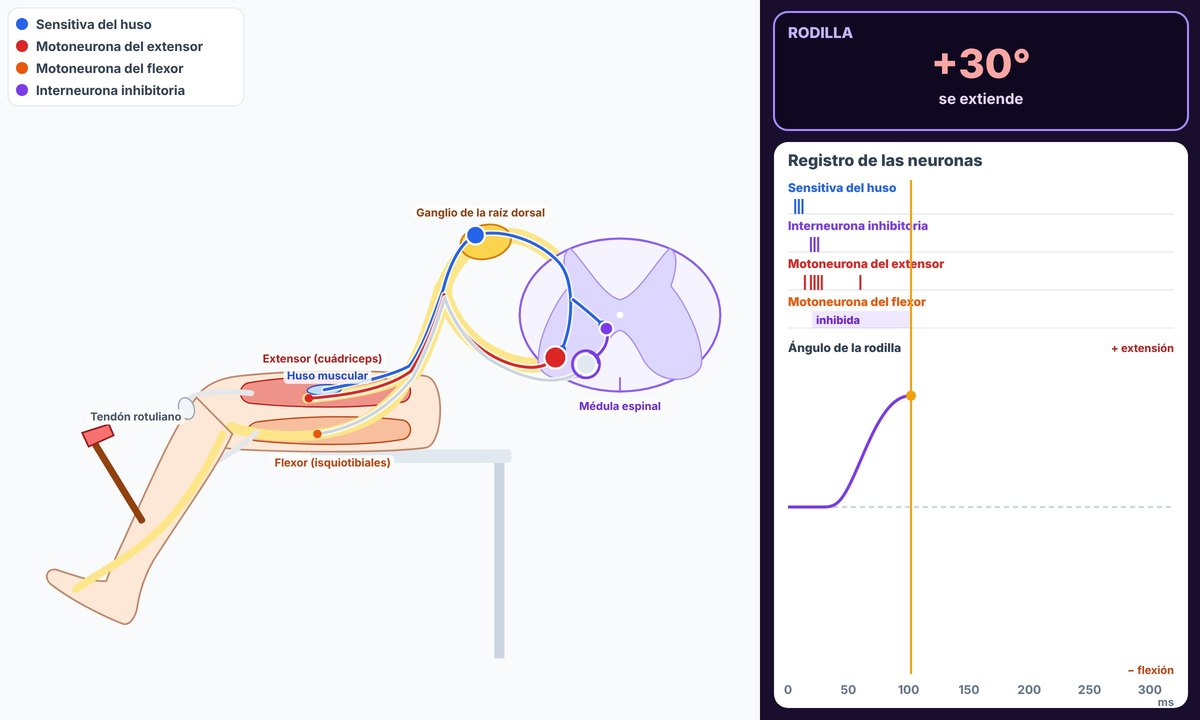
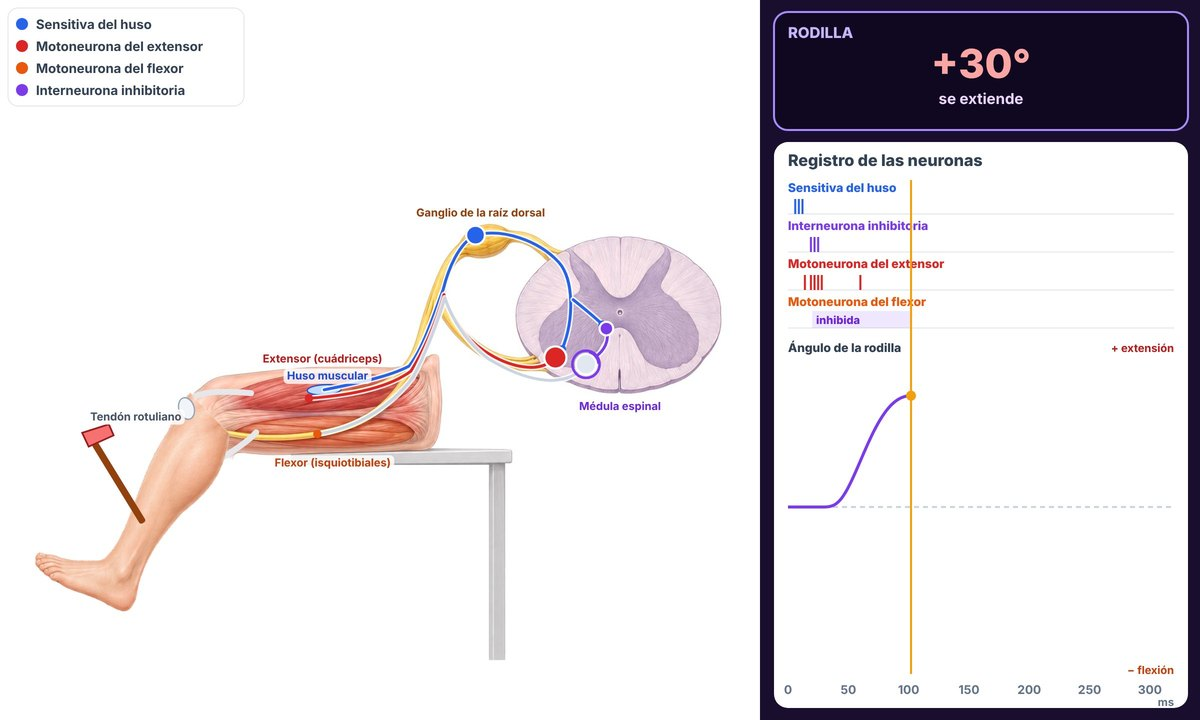
Circuito reflejo: ilustración de ChatGPT (fondo y pierna que gira) integrada al simulador
Claude-Session: https://claude.ai/code/session_01JTycxQctt8BXT22THxLcBr

Changed region(s): [[0.0308, 0.3056, 0.6167, 0.9167]]

diff --git a/js/sim-reflejo.js b/js/sim-reflejo.js
@@ -10,7 +10,7 @@
  * Cada registro se calcula entero al empezar (espigas en ms, impulsos por cada camino, ángulo de la rodilla) y todo lo
  * dibujado depende del instante `tp`: la barra permite pausar, volver, arrastrar y ver a 0,25× o 0,5×.
  * La pierna (muslo fijo; pierna y pie giran en la rodilla) se dibuja con trazos SVG (Path2D); con `fondo` y `pierna`
- * (ilustraciones) se usan las imágenes y el código solo dibuja lo que se mueve.
+ * (ilustraciones; la pierna en PNG transparente) se usan las imágenes y el código dibuja encima lo que se mueve.
  * Uso: const sim = crearSimReflejo(caja, { controles: ['golpe', 'clavo', 'inh'], ascendente: false });
  * sim.estado(); sim.alCambiar(fn). CHEQUEOS: condiciones con nombre para los pasos «sim».
  */
@@ -324,7 +324,7 @@ export function crearSimReflejo(caja, cfg = {}) {
         g.beginPath(); g.moveTo(ROTULA[0], ROTULA[1] + 8); g.lineTo(tub[0], tub[1]); g.stroke();
         // pierna y pie (giran en la rodilla)
         g.save(); g.translate(K[0], K[1]); g.rotate(a); g.translate(-K[0], -K[1]);
-        if (lista(IMG.pierna)) { g.save(); g.clip(PP.piernaClip); g.drawImage(IMG.pierna, 0, 0, 760, 720); g.restore(); }   // ilustración recortada con la silueta
+        if (lista(IMG.pierna)) g.drawImage(IMG.pierna, 0, 0, 760, 720);   // ilustración con fondo transparente (docs/practico-4_imagenes.py)
         else {
             g.fillStyle = '#FDE7D6'; g.strokeStyle = '#C2876B'; g.lineWidth = 2; g.fill(PP.pierna); g.stroke(PP.pierna);
             g.strokeStyle = '#FDE68A'; g.lineWidth = 9; g.lineCap = 'round'; g.stroke(P2D.nocPie);   // nervio de la pierna
@@ -511,7 +511,7 @@ export function crearSimReflejo(caja, cfg = {}) {
     }
     function zona() {
         const b = sw;
-        g.fillStyle = '#F8FAFC'; g.fillRect(0, 0, 760, 720);
+        g.fillStyle = lista(IMG.fondo) ? '#FFFFFF' : '#F8FAFC'; g.fillRect(0, 0, 760, 720);
         g.save(); g.translate(ESC.dx, ESC.dy); g.scale(ESC.s, ESC.s);   // la escena completa, con margen para que el pie no salga
         anatomia(b);
         if (ASC && ultimoTipo === 'ret') encefalo(b);

diff --git a/docs/practico-4_build.py b/docs/practico-4_build.py
@@ -350,7 +350,7 @@ R1 = {"n": 1, "tipo": "escenas", "modo": "casos", "simulador": "reflejo", "dx": 
       "fondo": "img/reflejo/guia-reflejo-1.jpg", "vb": [1200, 720], "alt": "Pierna, médula espinal y neuronas del reflejo rotuliano y de retirada",
       "guia_src": "img/reflejo/guia-reflejo-1.jpg", "guia_img": "El reflejo se resuelve en la médula",
       "guia_pie": "Simulador de NeuroLab: reflejo rotuliano (pierna extendida) con su registro. Esquema basado en Tortora, Principios de anatomía y fisiología.",
-      "sim_cfg": {"controles": ["golpe", "clavo", "inh"]},
+      "sim_cfg": {"controles": ["golpe", "clavo", "inh"], "fondo": "img/reflejo/fondo.jpg", "pierna": "img/reflejo/pierna.png"},
       "nombres_paso": {"elegir": "Pregunta"},
       "instrucciones": "Una persona sentada con la pierna colgando, su médula espinal y las neuronas de dos reflejos. Usa los botones de la izquierda: el <strong>🔨 golpe en el tendón</strong>, el <strong>📌 clavo bajo el pie</strong> y el interruptor de las <strong>interneuronas inhibitorias</strong>. Sigue los impulsos (puntos amarillos) por cada neurona y mira la pierna. A la derecha, el <strong>registro</strong>: cada raya es un potencial de acción de esa neurona y la curva es el ángulo de la rodilla. Con la barra bajo el simulador puedes volver a verlo, pausarlo o verlo a 0,5× o 0,25×. En cada caso cumple la lista y responde. Cada caso llena una fila del <strong>cuadro</strong>.",
       "cuadro": ["Caso", "Estímulo", "Receptor", "En la médula", "Respuesta"],
@@ -386,7 +386,7 @@ R2 = {"n": 2, "tipo": "escenas", "modo": "casos", "simulador": "reflejo", "dx": 
       "fondo": "img/reflejo/guia-reflejo-2.jpg", "vb": [1200, 720], "alt": "Reflejo de retirada con la vía que sube al tálamo y a la corteza",
       "guia_src": "img/reflejo/guia-reflejo-2.jpg", "guia_img": "El dolor también sube a la corteza",
       "guia_pie": "Simulador de NeuroLab: reflejo de retirada con la vía ascendente; la corteza recibe la señal cuando el pie ya se alejó.",
-      "sim_cfg": {"controles": ["clavo", "lesion"], "ascendente": True},
+      "sim_cfg": {"controles": ["clavo", "lesion"], "ascendente": True, "fondo": "img/reflejo/fondo.jpg", "pierna": "img/reflejo/pierna.png"},
       "nombres_paso": {"elegir": "Pregunta"},
       "instrucciones": "El mismo reflejo de retirada, ahora con la neurona que <strong>sube al encéfalo</strong> (tálamo y corteza, arriba a la derecha). Usa el <strong>📌 clavo bajo el pie</strong> y el interruptor <strong>Médula cortada más arriba</strong>. En el registro, la última fila muestra cuándo llega la señal a la corteza y cuándo se siente el dolor: compáralo con la curva de la rodilla. Con la barra bajo el simulador puedes volver a verlo o verlo más lento. En cada caso cumple la lista y responde. Cada caso llena una fila del <strong>cuadro</strong>.",
       "cuadro": ["Caso", "Prueba", "¿Retira el pie?", "¿Siente el dolor?"],

diff --git a/docs/practico-4_imagenes.py b/docs/practico-4_imagenes.py
@@ -1,10 +1,10 @@
 """Práctico 4 · sesión 15: integra las imágenes de ChatGPT (originales en img/_fuentes/, ver docs/prompts-imagenes.md §14-15).
 Uso: python3 docs/practico-4_imagenes.py   (procesa lo que exista; lo que falte lo avisa)
   · img/_fuentes/reflejo-fondo-chatgpt.png  (1024 × 1024) → img/reflejo/fondo.jpg   (escena 760 × 720 a 2×: 1520 × 1440)
-  · img/_fuentes/reflejo-pierna-chatgpt.png (1024 × 1024) → img/reflejo/pierna.jpg  (mismo encuadre; el código la recorta con la silueta)
+  · img/_fuentes/reflejo-pierna-chatgpt.png (1024 × 1024) → img/reflejo/pierna.png  (alineada con la plantilla; blanco → transparente)
   · img/_fuentes/sitios-placa-chatgpt.png   (1024 × 1024, 2 × 2) → img/cartas/<tarjeta>.png (320 px)
 Después de crear fondo.jpg y pierna.jpg, agregar a sim_cfg de los dos niveles de la actividad 9 (docs/practico-4_build.py):
-  "fondo": "img/reflejo/fondo.jpg", "pierna": "img/reflejo/pierna.jpg"."""
+  "fondo": "img/reflejo/fondo.jpg", "pierna": "img/reflejo/pierna.png"."""
 import pathlib
 from PIL import Image
 
@@ -18,11 +18,31 @@ def escena(origen, destino):
     im = Image.open(src).convert('RGB')
     k = im.width / 1024
     im = im.crop((0, 0, im.width, round(970 * k)))          # la plantilla ocupa 1024 × 970 (760 × 720 × 1,347)
+    im = im.point(lambda v: 255 if v > 240 else v)          # fondo blanco puro: no se nota el borde de la imagen
     im.resize((1520, 1440), Image.LANCZOS).save(R / destino, quality=86)
     print('ok', destino)
 
 escena('reflejo-fondo-chatgpt.png', 'img/reflejo/fondo.jpg')
-escena('reflejo-pierna-chatgpt.png', 'img/reflejo/pierna.jpg')
+
+def pierna():
+    """La pierna: se alinea con la plantilla (borde de arriba y de atrás de la silueta) y el blanco pasa a transparente."""
+    src = F / 'reflejo-pierna-chatgpt.png'
+    if not src.exists():
+        print('falta', src.name); return
+    im = Image.open(src).convert('RGB').resize((1024, 1024), Image.LANCZOS)
+    caja = lambda x: x.convert('L').point(lambda v: 255 if v < 235 else 0).getbbox()
+    a, b = caja(im), caja(Image.open(F / 'plantilla-reflejo-pierna.png').convert('RGB'))
+    dx, dy = b[2] - a[2], b[1] - a[1]
+    print('pierna: corrida', dx, dy)
+    rgba = Image.new('RGBA', (1024, 1024), (0, 0, 0, 0))
+    al = Image.new('L', im.size)
+    al.putdata([0 if min(c) > 244 else 255 if min(c) < 225 else int((244 - min(c)) / 19 * 255) for c in im.getdata()])
+    im.putalpha(al)
+    rgba.paste(im, (dx, dy), im)
+    rgba.crop((0, 0, 1024, 970)).resize((1520, 1440), Image.LANCZOS).save(R / 'img/reflejo/pierna.png')
+    print('ok img/reflejo/pierna.png')
+
+pierna()
 
 # Tarjetas de la placa motora: cuadrícula 2 × 2, en el orden del prompt
 PLACA = ['terminal-del-axon-motor', 'hendidura-de-la-placa', 'receptor-de-la-fibra-muscular', 'celula-de-schwann-terminal']
